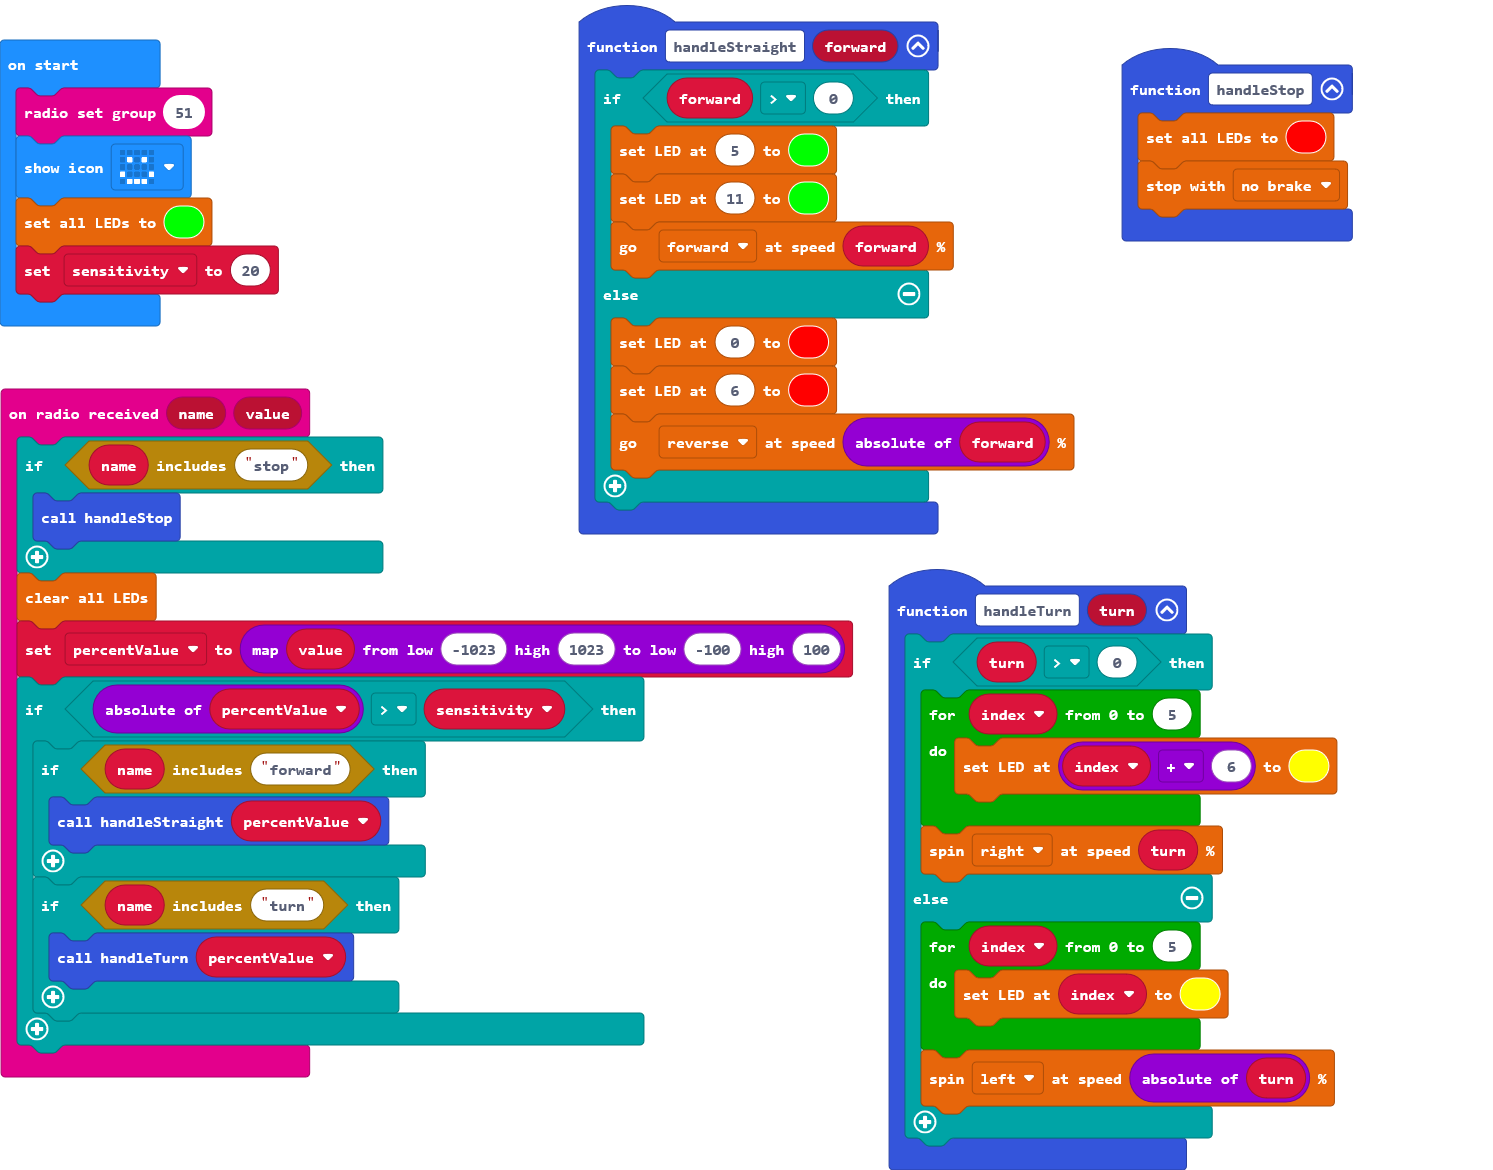
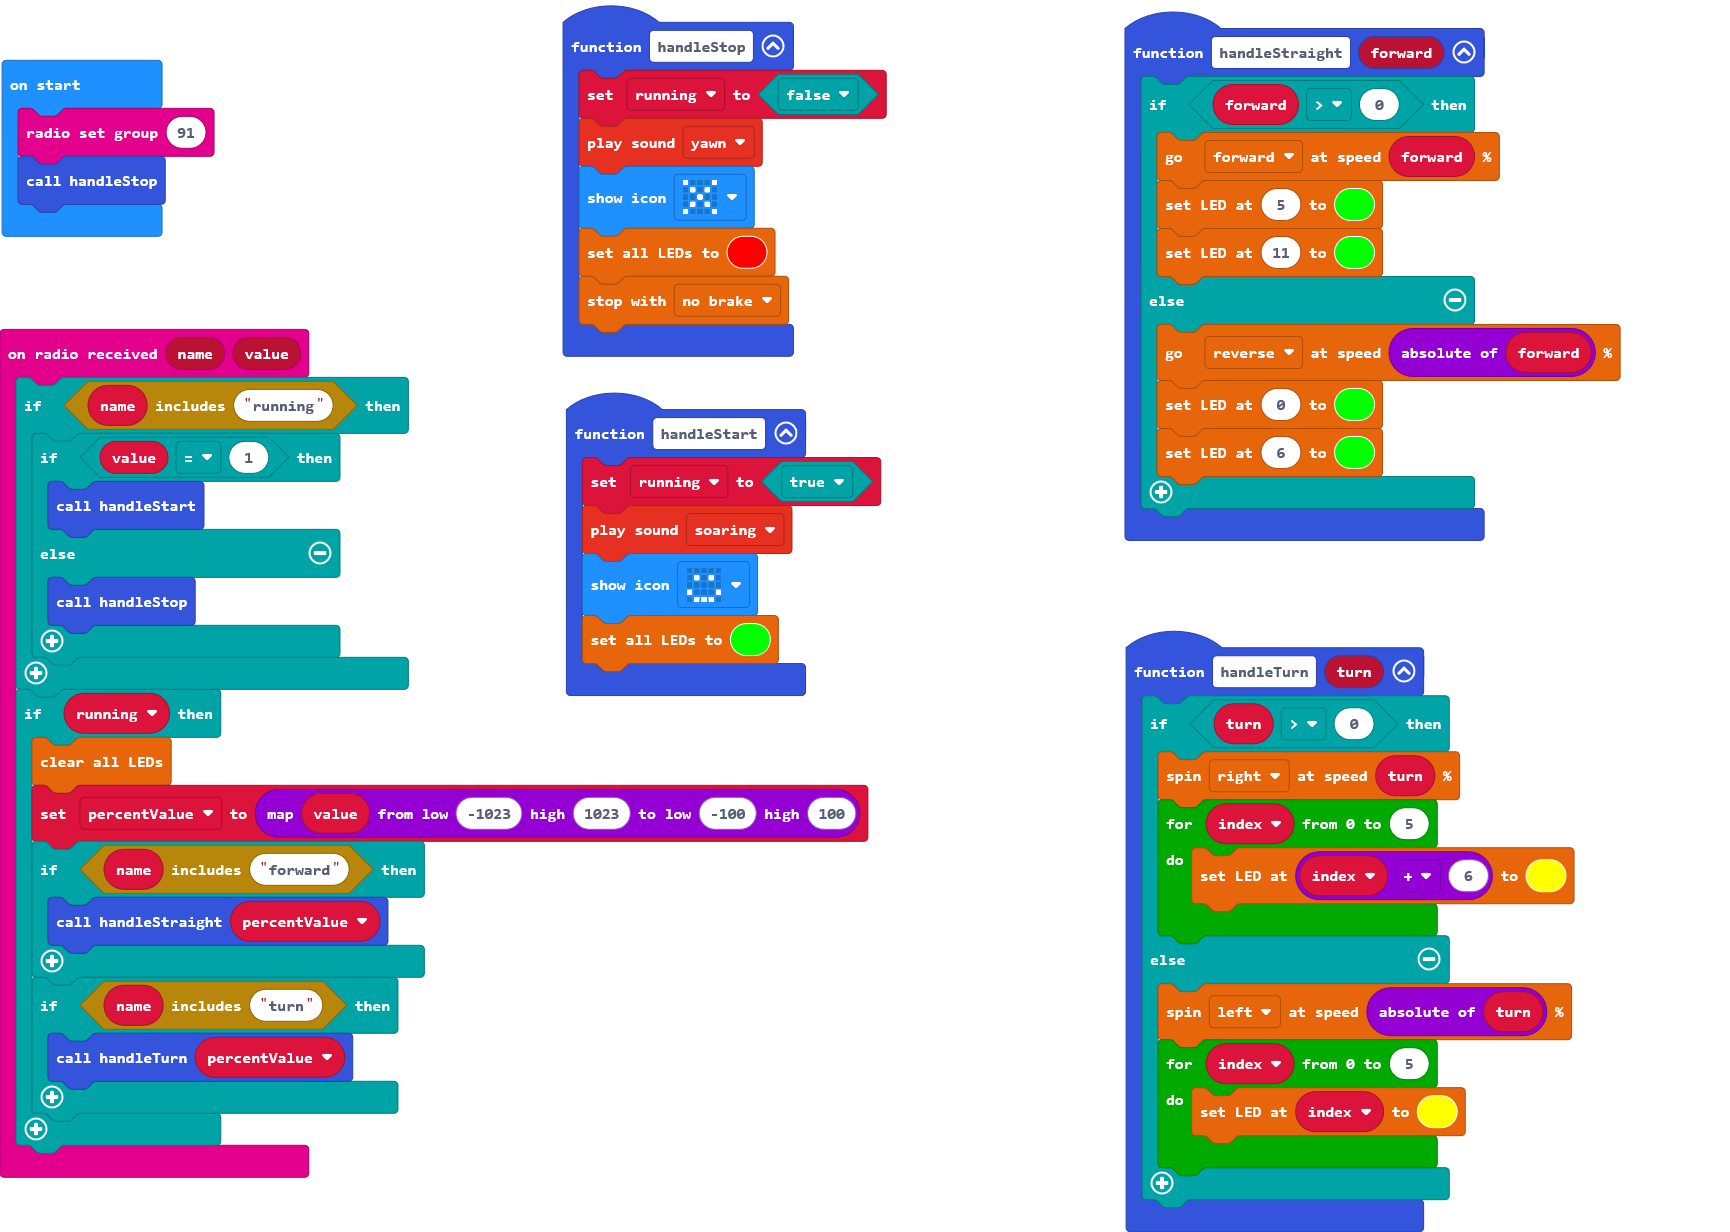
works pretty well now

diff --git a/main.ts b/main.ts
@@ -1,27 +1,40 @@
+function handleStart () {
+    running = true
+    soundExpression.soaring.play()
+    basic.showIcon(IconNames.Happy)
+    bitbot.setLedColor(0x00FF00)
+}
 function handleStop () {
+    running = false
+    soundExpression.yawn.play()
+    basic.showIcon(IconNames.No)
     bitbot.setLedColor(0xFF0000)
     bitbot.stop(BBStopMode.Coast)
 }
 function handleTurn (turn: number) {
     if (turn > 0) {
+        bitbot.rotate(BBRobotDirection.Right, turn)
         for (let index = 0; index <= 5; index++) {
             bitbot.setPixelColor(index + 6, 0xFFFF00)
         }
-        bitbot.rotate(BBRobotDirection.Right, turn)
     } else {
+        bitbot.rotate(BBRobotDirection.Left, Math.abs(turn))
         for (let index = 0; index <= 5; index++) {
             bitbot.setPixelColor(index, 0xFFFF00)
         }
-        bitbot.rotate(BBRobotDirection.Left, Math.abs(turn))
     }
 }
 radio.onReceivedValue(function (name, value) {
-    if (name.includes("stop")) {
-        handleStop()
+    if (name.includes("running")) {
+        if (value == 1) {
+            handleStart()
+        } else {
+            handleStop()
+        }
     }
-    bitbot.ledClear()
-    percentValue = Math.map(value, -1023, 1023, -100, 100)
-    if (Math.abs(percentValue) > sensitivity) {
+    if (running) {
+        bitbot.ledClear()
+        percentValue = Math.map(value, -1023, 1023, -100, 100)
         if (name.includes("forward")) {
             handleStraight(percentValue)
         }
@@ -32,18 +45,16 @@ radio.onReceivedValue(function (name, value) {
 })
 function handleStraight (forward: number) {
     if (forward > 0) {
+        bitbot.go(BBDirection.Forward, forward)
         bitbot.setPixelColor(5, 0x00FF00)
         bitbot.setPixelColor(11, 0x00FF00)
-        bitbot.go(BBDirection.Forward, forward)
     } else {
-        bitbot.setPixelColor(0, 0xFF0000)
-        bitbot.setPixelColor(6, 0xFF0000)
         bitbot.go(BBDirection.Reverse, Math.abs(forward))
+        bitbot.setPixelColor(0, 0x00FF00)
+        bitbot.setPixelColor(6, 0x00FF00)
     }
 }
 let percentValue = 0
-let sensitivity = 0
-radio.setGroup(51)
-basic.showIcon(IconNames.Happy)
-bitbot.setLedColor(0x00FF00)
-sensitivity = 20
+let running = false
+radio.setGroup(91)
+handleStop()
